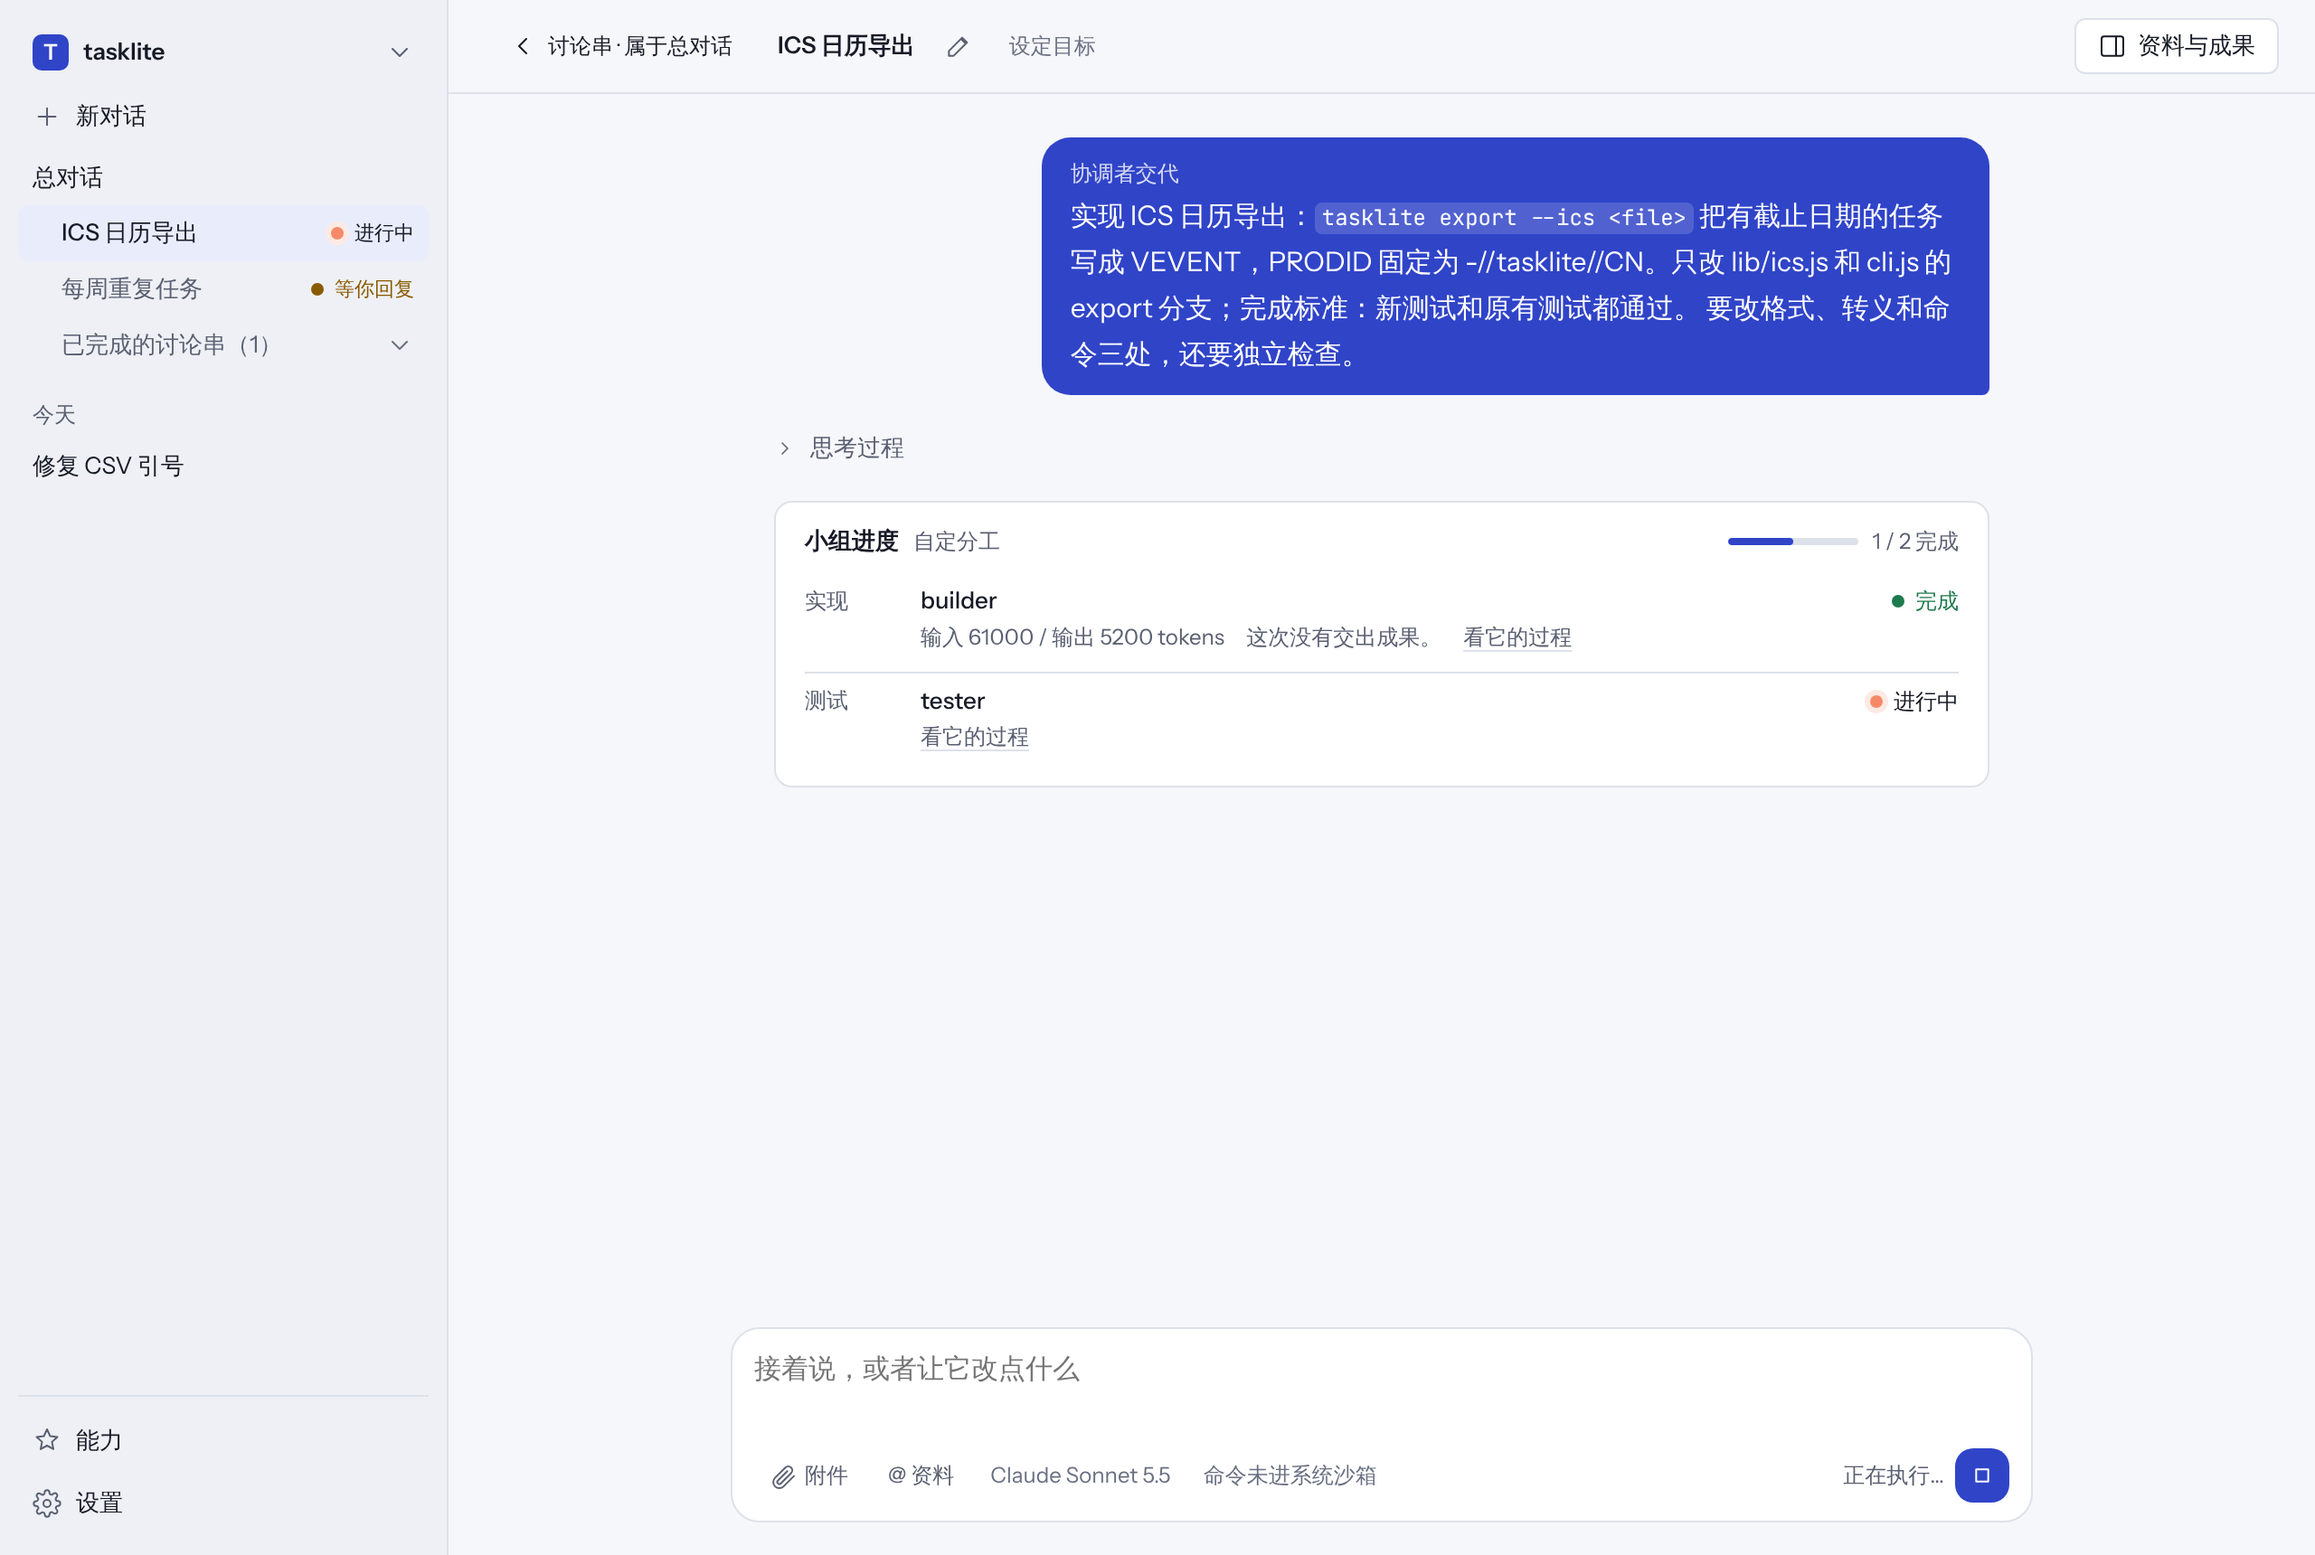
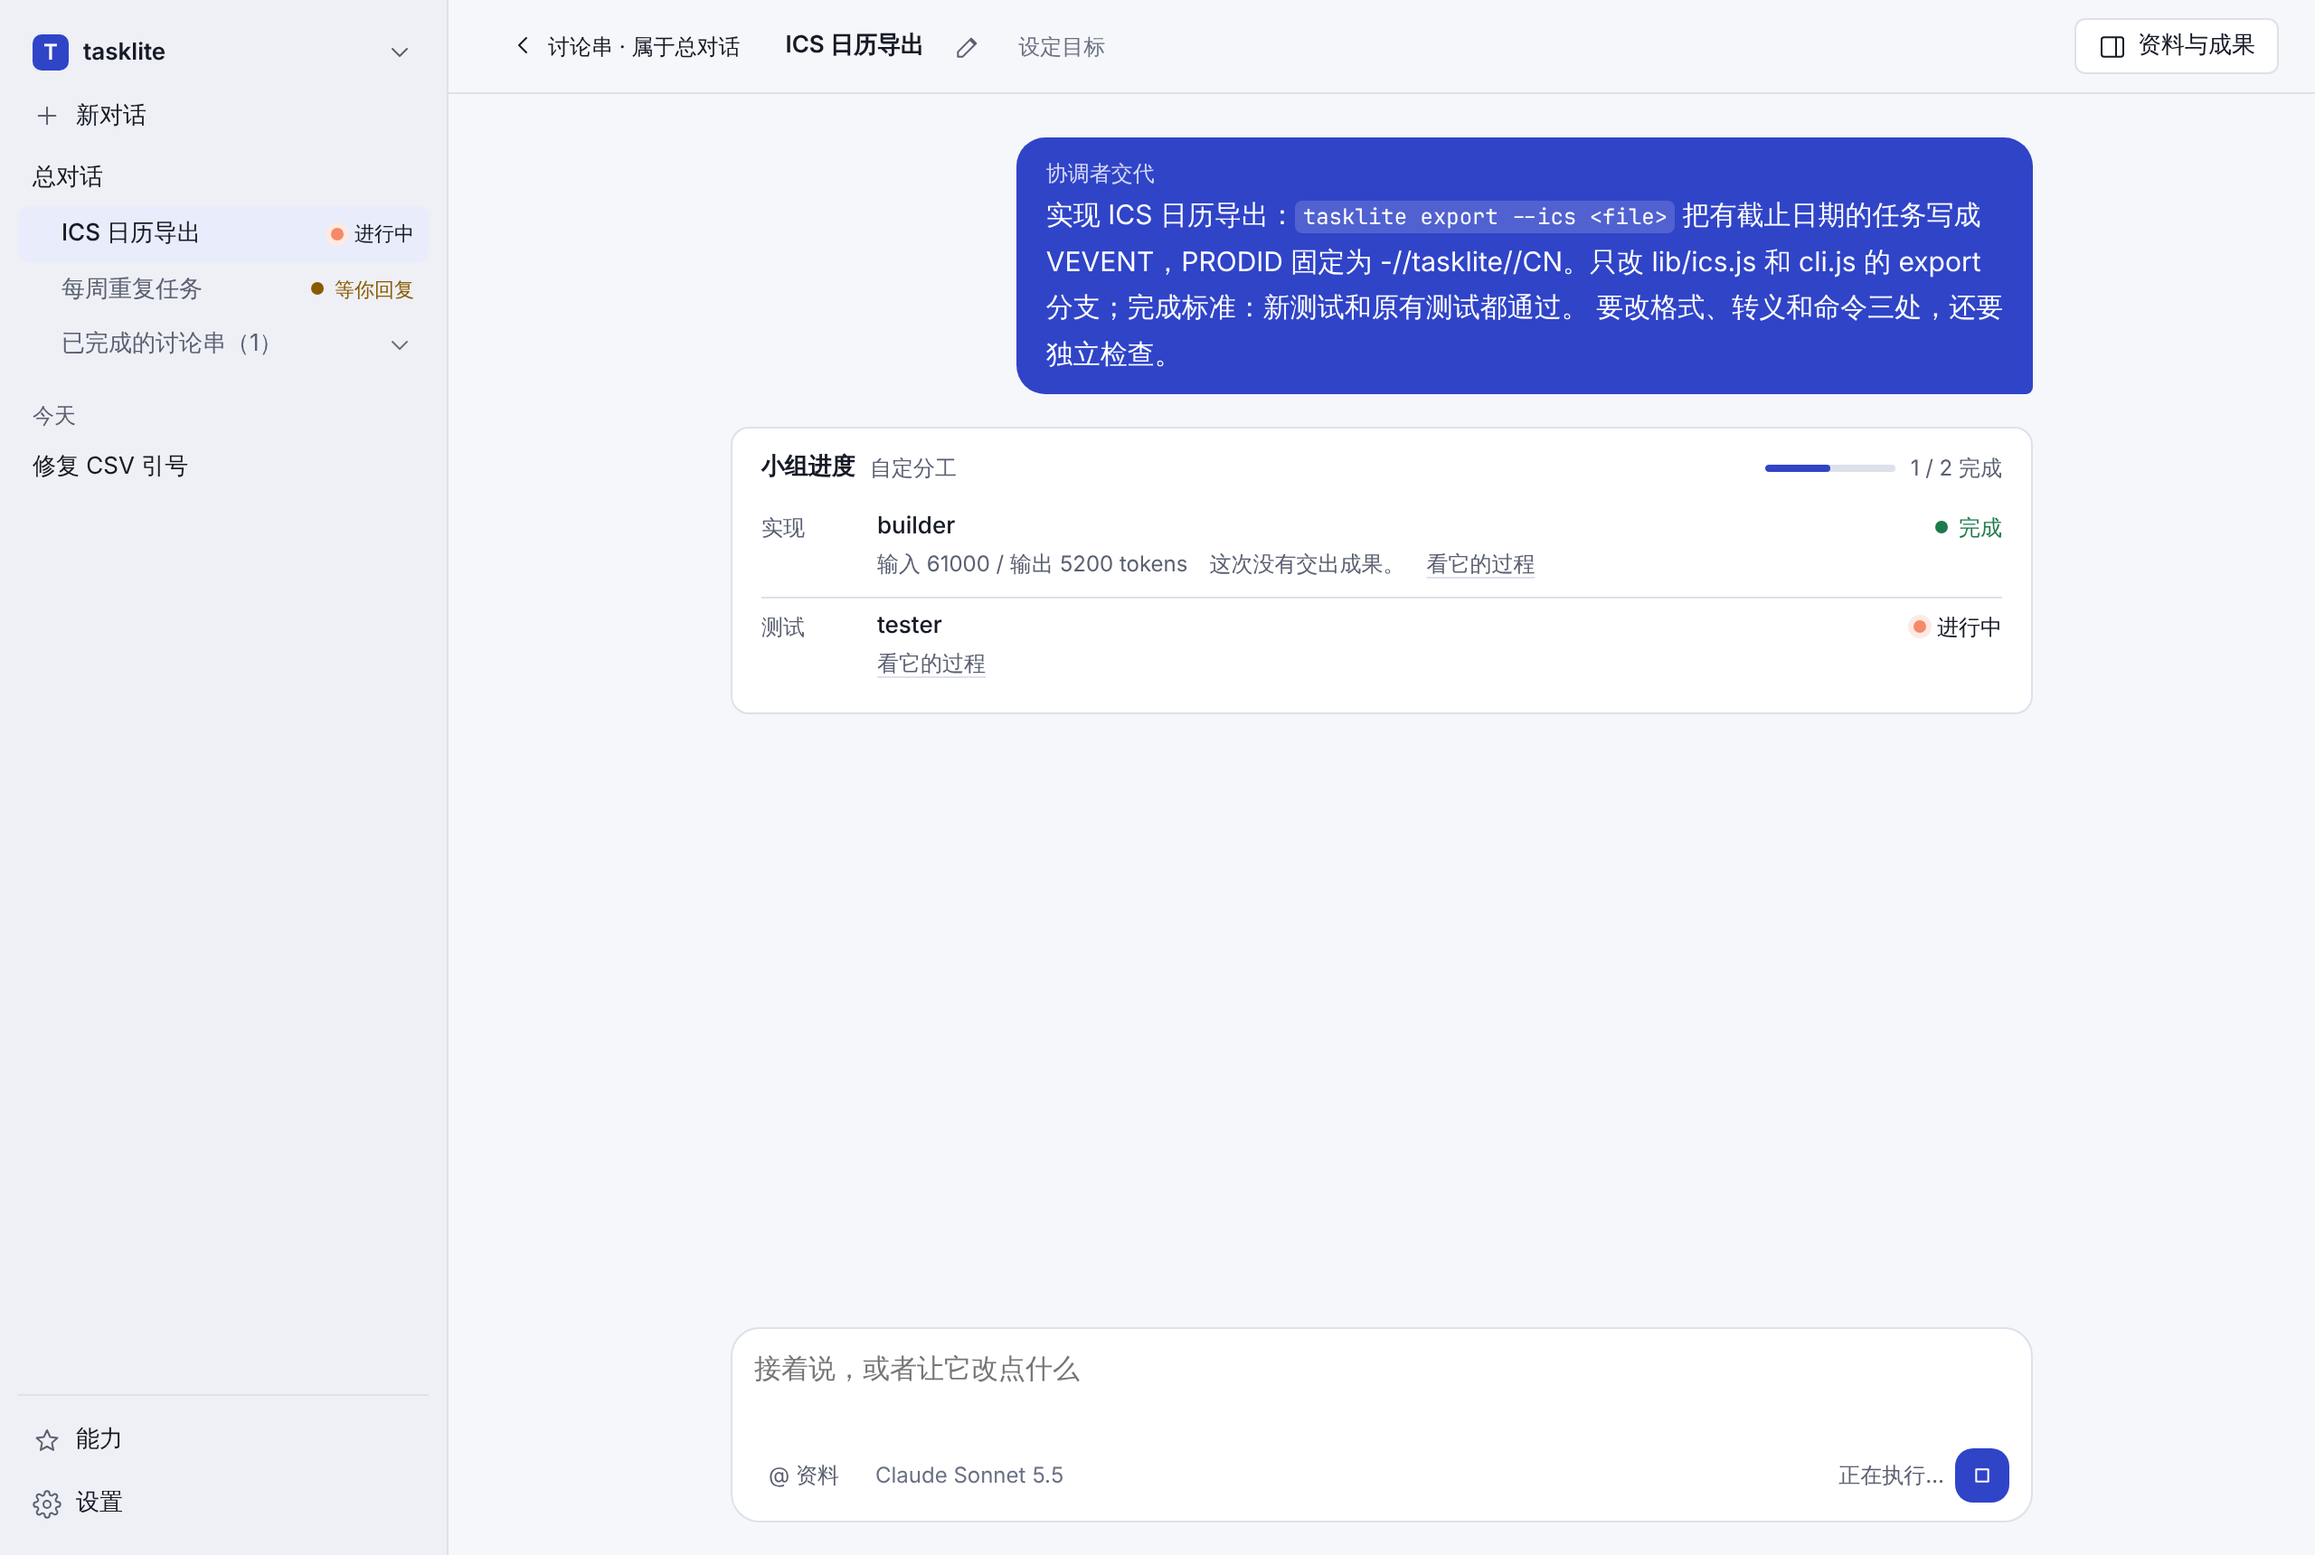
Fix five layout faults found on the Mac trial
- The 资料与成果 drawer is a third column: the conversation and composer
  narrow beside it instead of being covered.
- The message column is as wide as the composer and the cards above it, and
  stays centred with the scrollbar; a card appearing above the composer keeps
  the list pinned to the bottom, so the last line is no longer cut off.
- Settings: folded groups are ink headings with a chevron; the usage limits
  have column headings; 已保存 sits on the same line as 返回对话.
- Deliverable dialog: versions line up with the title, the dialog keeps one
  height when switching versions, and the active version stays readable on
  hover.
- Dialog and drawer close buttons are a 32px target with the line icon.
- README screenshots retaken.

diff --git a/apps/desktop/src/renderer/styles.css b/apps/desktop/src/renderer/styles.css
@@ -225,6 +225,14 @@ button.icon {
   color: var(--muted);
 }
 
+/* Close buttons of dialogs and the drawer: a 32px target around the 16px icon. */
+button.icon.close {
+  width: 32px;
+  height: 32px;
+  justify-content: center;
+  padding: 0;
+}
+
 button.icon:hover:not(:disabled) {
   background: var(--hover);
   color: var(--fg);
@@ -1157,10 +1165,13 @@ a {
   flex: 1;
   overflow-y: auto;
   min-height: 0;
+  /* The scrollbar takes room on both sides, so the column stays centred over the composer. */
+  scrollbar-gutter: stable both-edges;
 }
 
 .timeline-inner {
-  max-width: 720px;
+  /* 720px of content, like the composer and the cards above it. */
+  max-width: calc(720px + 48px);
   margin: 0 auto;
   padding: 24px 24px 16px;
   display: flex;
@@ -1983,6 +1994,11 @@ button.chip {
   z-index: 15;
 }
 
+/* The drawer is the third column (design system: 布局): what sits under the title bar narrows beside it instead of being covered. */
+.conversation:has(> .drawer) > :not(.topbar, .drawer) {
+  margin-right: min(380px, 100%);
+}
+
 .drawer-head {
   display: flex;
   align-items: center;
@@ -2134,6 +2150,10 @@ button.chip {
   color: var(--on-accent);
 }
 
+.version-pill.active:hover:not(:disabled) {
+  background: var(--accent-hover);
+}
+
 .drop-hint {
   margin-top: 8px;
   border: 1px dashed var(--line);
@@ -2181,13 +2201,21 @@ button.chip {
 
 .modal.wide {
   width: min(960px, 100%);
+  /* A fixed height: switching versions or tabs does not move the dialog. */
+  height: min(720px, 100%);
+}
+
+.modal.wide > .modal-body {
+  flex: 1;
+  min-height: 0;
 }
 
 .modal-head {
   display: flex;
   align-items: center;
   justify-content: space-between;
-  padding: 14px 18px 6px;
+  gap: 12px;
+  padding: 10px 10px 6px 18px;
 }
 
 .modal-head h2 {
@@ -2225,6 +2253,10 @@ button.chip {
   align-items: center;
   gap: 12px;
   flex-wrap: wrap;
+}
+
+.deliverable-toolbar .versions {
+  padding-left: 0;
 }
 
 .preview {
@@ -2568,8 +2600,14 @@ button.chip {
   max-width: 900px;
 }
 
+.page-head-actions {
+  display: flex;
+  align-items: center;
+  gap: 12px;
+  flex: none;
+}
+
 .save-state {
-  align-self: center;
   min-width: 56px;
   text-align: right;
 }
@@ -2680,6 +2718,15 @@ button.chip {
   align-items: center;
   gap: 8px;
   margin-top: 8px;
+}
+
+.usage-caps.head {
+  margin-top: 12px;
+}
+
+.usage-caps.head > span {
+  font-size: 12px;
+  color: var(--muted);
 }
 
 .usage-caps label {
@@ -3206,13 +3253,30 @@ textarea.check-commands {
   list-style: none;
 }
 
-.settings-group.folded > summary h3 {
-  display: inline;
-  color: var(--muted);
+.settings-group.folded > summary::-webkit-details-marker {
+  display: none;
 }
 
-.settings-group.folded[open] > summary h3 {
-  color: inherit;
+/* A folded group reads as a heading with a chevron, not a greyed-out one. */
+.settings-group.folded > summary h3 {
+  display: inline-flex;
+  align-items: center;
+  gap: 6px;
+}
+
+.settings-group.folded > summary .fold-mark {
+  color: var(--muted);
+  transition: transform 0.15s ease-out;
+}
+
+.settings-group.folded[open] > summary .fold-mark {
+  transform: rotate(90deg);
+}
+
+@media (prefers-reduced-motion: reduce) {
+  .settings-group.folded > summary .fold-mark {
+    transition: none;
+  }
 }
 
 .record {

diff --git a/apps/desktop/src/renderer/components/SettingsPage.tsx b/apps/desktop/src/renderer/components/SettingsPage.tsx
@@ -4,6 +4,7 @@ import type { ProjectSettings, SettingsPatch, UserSettingsPatch } from '@nexgent
 import { useAppState, useAppStore } from '../hooks.js'
 import { L, T, credentialText, effortText } from '../strings.js'
 import { readTheme, saveTheme, type Theme } from '../theme.js'
+import { Icon } from './Icon.js'
 import { Switch } from './Learned.js'
 import { Page } from './Page.js'
 import type { SettingsGroup } from '../ui.js'
@@ -419,6 +420,12 @@ export function SettingsPage({ onClose, initialGroup }: { readonly onClose: () =
                 {capRow('perProject', L.perProject, L.perProjectHelp(Number(caps.perProject.windowDays) || 30), 'cap-project')}
                 <details className="usage-more" open={hasUsageCaps(settings.costCaps)}>
                   <summary className="muted small">{L.usageCaps}</summary>
+                  <div className="usage-caps head" aria-hidden="true">
+                    <span />
+                    <span>{L.maxTokens}</span>
+                    <span>{L.maxRequests}</span>
+                    <span>{L.windowDays}</span>
+                  </div>
                   {usage('perTask', 'cap-task', L.perTask)}
                   {usage('perConversation', 'cap-conversation', L.perConversation)}
                   {usage('perProject', 'cap-project', L.perProject)}
@@ -497,7 +504,13 @@ function Group({ id, children }: { readonly id: (typeof GROUPS)[number]; readonl
   if (FOLDED.has(id))
     return (
       <details className="settings-group folded" id={`settings-${id}`} aria-labelledby={`settings-${id}-title`} data-testid={`settings-group-${id}`}>
-        <summary>{title}</summary>
+        <summary>
+          <h3 id={`settings-${id}-title`}>
+            <Icon name="chevronRight" className="fold-mark" />
+            {L.groups[id]}
+            <HelpTip text={L.groupHelp[id]} />
+          </h3>
+        </summary>
         <div className="setting-rows">{children}</div>
       </details>
     )

diff --git a/apps/desktop/src/renderer/components/Timeline.tsx b/apps/desktop/src/renderer/components/Timeline.tsx
@@ -413,6 +413,16 @@ export function Timeline({
     const el = ref.current
     if (el !== null && stick.current) el.scrollTop = el.scrollHeight
   }, [entries])
+  // A card that appears above the composer shortens the list: stay at the bottom if the reader was there.
+  useEffect(() => {
+    const el = ref.current
+    if (el === null || typeof ResizeObserver === 'undefined') return undefined
+    const observer = new ResizeObserver(() => {
+      if (stick.current) el.scrollTop = el.scrollHeight
+    })
+    observer.observe(el)
+    return () => observer.disconnect()
+  }, [])
   const files = turnFiles(entries)
   const rewindable = readOnly || onRewind === undefined ? new Set<number>() : rewindableTurns(entries)
   // A message sent while its turn ran is not where that turn starts: only the turn's first message takes the files back.

diff --git a/apps/desktop/src/renderer/components/Page.tsx b/apps/desktop/src/renderer/components/Page.tsx
@@ -37,11 +37,13 @@ export function Page({ title, lead, onClose, testId, bar, aside, children }: Pro
               <h2 className="page-title">{title}</h2>
               {lead !== undefined && <p>{lead}</p>}
             </div>
-            {aside}
-            <button type="button" className="ghost" onClick={onClose} data-testid="page-back">
-              <Icon name="back" />
-              {T.backToChat}
-            </button>
+            <div className="page-head-actions">
+              {aside}
+              <button type="button" className="ghost" onClick={onClose} data-testid="page-back">
+                <Icon name="back" />
+                {T.backToChat}
+              </button>
+            </div>
           </div>
           {bar}
         </div>

diff --git a/apps/desktop/src/renderer/components/Modal.tsx b/apps/desktop/src/renderer/components/Modal.tsx
@@ -1,5 +1,6 @@
 import { useEffect, useRef, type ReactNode } from 'react'
 import { T } from '../strings.js'
+import { Icon } from './Icon.js'
 
 interface Props {
   readonly title: string
@@ -27,8 +28,8 @@ export function Modal({ title, onClose, children, wide, testId }: Props): JSX.El
         <header className="modal-head">
           <h2>{title}</h2>
           {onClose !== undefined && (
-            <button type="button" className="icon" aria-label={T.close} onClick={onClose}>
-              ×
+            <button type="button" className="icon close" aria-label={T.close} title={T.close} onClick={onClose}>
+              <Icon name="close" />
             </button>
           )}
         </header>

diff --git a/apps/desktop/src/renderer/components/Drawer.tsx b/apps/desktop/src/renderer/components/Drawer.tsx
@@ -154,7 +154,7 @@ export function Drawer(): JSX.Element | null {
           ))}
         </div>
         <span className="grow" />
-        <button type="button" className="icon" aria-label={T.drawerClose} title={T.drawerClose} onClick={() => setDrawer(undefined)} data-testid="drawer-close">
+        <button type="button" className="icon close" aria-label={T.drawerClose} title={T.drawerClose} onClick={() => setDrawer(undefined)} data-testid="drawer-close">
           <Icon name="close" />
         </button>
       </div>
